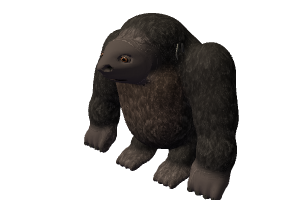
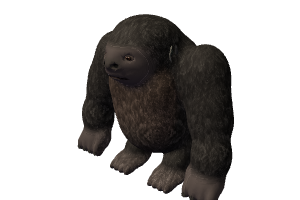
Remove layered axolotl eyelids and shorten gorilla facial projection

diff --git a/public/zoo-animals.js b/public/zoo-animals.js
@@ -2,7 +2,7 @@ import {zooCoatUniforms} from './zoo-coat-atlas.js';
 import {zooModelFrames,zooInteractionPose,GORILLA_PLAY_REVISION} from './zoo-play-poses.js';
 import {ZOO_CLIP_FRAMES,zooBehaviorFrame,zooClipPose} from './zoo-behavior.js';
 import {optimizeGeometryCache} from './geometry-cache.js';
-import {ZOO_ANATOMY_REVISION,POLAR_DETAIL_REVISION} from './zoo-anatomy-data.js';
+import {ZOO_ANATOMY_REVISION,POLAR_DETAIL_REVISION,ZOO_FACE_REVISIONS} from './zoo-anatomy-data.js';
 import {zooTigerCoat,zooTigerCoatSteps} from './zoo-coat-pattern.js';
 import {zooFurSteps,zooFurTexture,zooBearFurTexture} from './zoo-fur.js';
 import {buildZooAnatomy,paintGorillaFace} from './zoo-anatomy.js';
@@ -58,17 +58,19 @@ function* buildTemplateSteps(species){
    skin={axolotl:0xf5c6d6,elephant:0x606867,gorilla:0x514d46,tiger:0x716f67,polar:0x6a4934,otter:0x41342b}[species];
   joint(name,[x,y,z],parent);joint(lid,[x,y,z],parent);
   sockets.push({pos:[x,y+(species==='axolotl'?.12:0),z],size:[r*1.4,r*(species==='axolotl'?1.05:['gorilla','elephant'].includes(species)?.86:.95),r*(species==='axolotl'?1.0:1.55)]});
-  add(skin,point(0,0,-r*.3),[r*1.38,r*(species==='axolotl'?1:.83),r*.22],parent,{aim:normal});
-  add(0xffffff,[x,y,z],[1,1,1],name,{geometryFactory:()=>zooEyeCap(r,{blue,axolotl:species==='axolotl',roundness:species==='elephant'?.81:species==='gorilla'?.66:.69}),gloss:1,painted:true,aim:normal});
+  if(species!=='axolotl')add(skin,point(0,0,-r*.3),[r*1.38,r*.83,r*.22],parent,{aim:normal});
+  add(0xffffff,[x,y,z],[1,1,1],name,{geometryFactory:()=>zooEyeCap(r,{blue,axolotl:species==='axolotl',gorilla:species==='gorilla',roundness:species==='elephant'?.81:species==='gorilla'?.56:.69}),gloss:1,painted:true,aim:normal});
   add(0xfff9e9,point(-r*.22,r*.25,r*(species==='axolotl'?.67:.445)),[r*.1,r*.09,r*.035],name,{gloss:1,micro:true,aim:normal});
   add(0xc1d4d5,point(r*.2,-r*.12,r*(species==='axolotl'?.68:.45)),[r*.036,r*.035,r*.02],name,{gloss:1,micro:true,aim:normal});
-  const h=species==='axolotl'?.86:species==='elephant'?.81:species==='gorilla'?.66:.69,rim=species==='polar'?0x493626:skin;
-  curve([point(-r*1.08,0,r*.04),point(-r*.55,r*h*.83,r*.39),point(0,r*h,r*.47),point(r*.55,r*h*.8,r*.39),point(r*1.08,0,r*.04)],r*(species==='axolotl'?.11:.065),rim,parent);
-  curve([point(-r*1.08,0,r*.03),point(0,-r*h*.85,r*.44),point(r*1.08,0,r*.03)],r*(species==='axolotl'?.065:.035),rim,parent);
-  add(skin,point(0,0,r*.49),[r*1.07,r*h,r*.09],lid,{aim:normal});
+  const h=species==='axolotl'?.86:species==='elephant'?.81:species==='gorilla'?.56:.69,rim=species==='polar'?0x493626:skin;
+  // The axolotl's upper tube floated above its cornea in overhead views.
+  // Keep its approved eye/skin and blink squeeze, without a stacked lid cap.
+  if(species!=='axolotl')curve([point(-r*1.08,0,r*.04),point(-r*.55,r*h*.83,r*.39),point(0,r*h,r*.47),point(r*.55,r*h*.8,r*.39),point(r*1.08,0,r*.04)],r*.065,rim,parent);
+  if(species!=='axolotl')curve([point(-r*1.08,0,r*.03),point(0,-r*h*.85,r*.44),point(r*1.08,0,r*.03)],r*.035,rim,parent);
+  if(species!=='axolotl')add(skin,point(0,0,r*.49),[r*1.07,r*h,r*.09],lid,{aim:normal});
  };
  buildZooAnatomy(species,{joint,add,curve,eye,socket:s=>sockets.push(s)});
- const sculpt=yield*sculptZooAnimalSteps(volumes,{resolution:species==='gorilla'||species==='elephant'?112:96,soft:species==='axolotl'?.04:.09,sockets,pigment:species==='gorilla'?paintGorillaFace:undefined,targetTriangles:{elephant:28000,axolotl:16500,otter:15000,polar:26000,gorilla:27000}[species]}),sculptStats={volumes:volumes.length,vertices:sculpt.attributes.position.count,triangles:sculpt.index.count/3,weighted:0};for(let i=0;i<sculpt.attributes.position.count;i++)if(sculpt.attributes.aSculptWeights.getY(i)>.001)sculptStats.weighted++;add(0xffffff,[0,0,0],[1,1,1],'body',{geometry:sculpt,sculpt:true,gloss:species==='otter'?.36:species==='elephant'?.08:undefined});const fur=yield*zooFurSteps(sculpt,species);sculptStats.furCards=fur?.userData.furCards||0;if(fur){add(0xffffff,[0,0,0],[1,1,1],'body',{geometry:fur,sculpt:true,fur:true,gloss:species==='otter'?.36:0});fur.dispose();}sculpt.dispose();
+ const sculpt=yield*sculptZooAnimalSteps(volumes,{resolution:species==='gorilla'?160:species==='elephant'?112:96,soft:species==='axolotl'?.04:.09,sockets,pigment:species==='gorilla'?paintGorillaFace:undefined,targetTriangles:{elephant:28000,axolotl:16500,otter:15000,polar:26000,gorilla:27000}[species]}),sculptStats={volumes:volumes.length,vertices:sculpt.attributes.position.count,triangles:sculpt.index.count/3,weighted:0};for(let i=0;i<sculpt.attributes.position.count;i++)if(sculpt.attributes.aSculptWeights.getY(i)>.001)sculptStats.weighted++;add(0xffffff,[0,0,0],[1,1,1],'body',{geometry:sculpt,sculpt:true,gloss:species==='otter'?.36:species==='elephant'?.08:undefined});const fur=yield*zooFurSteps(sculpt,species);sculptStats.furCards=fur?.userData.furCards||0;if(fur){add(0xffffff,[0,0,0],[1,1,1],'body',{geometry:fur,sculpt:true,fur:true,gloss:species==='otter'?.36:0});fur.dispose();}sculpt.dispose();
  for(let i=0;i<pendingParts.length;i++){bakePart(...pendingParts[i]);if(i%3===0)yield;}
  const geometry=mergeGeometries(parts,false);parts.forEach(g=>g.dispose());optimizeGeometryCache(geometry);geometry.computeBoundingSphere();geometry.userData.sharedScenery=true;
  const frameCount=zooModelFrames(species),n=joints.length,values=new Float32Array(n*4*frameCount*4),rest=joints.map((j,i)=>new T.Matrix4().makeTranslation(...j.pivot.toArray())),inverse=rest.map(m=>m.clone().invert()),animated=[];
@@ -77,7 +79,7 @@ function* buildTemplateSteps(species){
   animated[i]=j.parent===null?m:animated[j.parent].clone().multiply(m);const skin=animated[i].clone().multiply(inverse[i]);values.set(skin.elements,(f*n+i)*16);
  }if(f%8===0)yield;}
  const texture=new T.DataTexture(values,n*4,frameCount,T.RGBAFormat,T.FloatType);texture.minFilter=texture.magFilter=T.NearestFilter;texture.needsUpdate=true;texture.userData.sharedScenery=true;
- return {species,geometry,texture,joints,values,frameCount,width:n*4,refs:0,sculptStats,anatomyRevision:ZOO_ANATOMY_REVISION,detailRevision:species==='polar'?POLAR_DETAIL_REVISION:species==='gorilla'?GORILLA_PLAY_REVISION:undefined};
+ return {species,geometry,texture,joints,values,frameCount,width:n*4,refs:0,sculptStats,anatomyRevision:ZOO_ANATOMY_REVISION,faceRevision:ZOO_FACE_REVISIONS[species],detailRevision:species==='polar'?POLAR_DETAIL_REVISION:species==='gorilla'?GORILLA_PLAY_REVISION:undefined};
 }
 const declarations=`attribute float aGreetWeight;varying vec3 vZooRestNormal;attribute vec2 aJoints;attribute vec2 aWeights;attribute vec2 aGloss;varying float vZooFur;varying vec2 vZooFurUV;attribute float aStripe;varying float vZooStripe;varying vec3 vZooRest;attribute float aZooPhase;varying float vZooGloss;uniform sampler2D uZooPose;uniform float uZooFrameAt[8];uniform float uZooOverrideFrame[8];uniform float uZooOverrideMix[8];uniform vec3 uZooReactShift[8];uniform vec2 uZooReactYaw[8];uniform float uZooGrip[8];uniform float uZooSpecies;uniform float uZooTime;uniform float uZooFrames;uniform float uZooCycle;uniform float uZooGreet;uniform float uZooApproach;uniform float uZooAngle;uniform vec3 uZooAxis;attribute float aGreetId;attribute vec3 aGreetPivot;
 vec3 zooAxisRotate(vec3 p,vec3 axis,float a){return p*cos(a)+cross(axis,p)*sin(a)+axis*dot(axis,p)*(1.-cos(a));}

diff --git a/public/zoo-model-codec.js b/public/zoo-model-codec.js
@@ -1,11 +1,11 @@
 import {zooModelFrames,GORILLA_PLAY_REVISION} from './zoo-play-poses.js';
-import {ZOO_ANATOMY_REVISION,POLAR_DETAIL_REVISION} from './zoo-anatomy-data.js';
+import {ZOO_ANATOMY_REVISION,POLAR_DETAIL_REVISION,ZOO_FACE_REVISIONS} from './zoo-anatomy-data.js';
 import * as T from 'three';
 import {ZOO_POSE_FRAMES} from './zoo-animal-motion.js';
 const MAGIC=0x5a4f4f33,types={Float32Array,Uint32Array,Uint16Array,Uint8Array};
 export function encodeZooTemplate(t){
  let bytes=0;const chunks=[],attribute=(a)=>{const data=a.array||a,meta={type:data.constructor.name,length:data.length,offset:bytes,itemSize:a.itemSize,normalized:!!a.normalized};chunks.push({data,offset:bytes});bytes+=Math.ceil(data.byteLength/4)*4;return meta;};
- const header={schema:2,anatomyRevision:t.anatomyRevision,species:t.species,detailRevision:t.detailRevision,frameCount:t.frameCount===400?undefined:t.frameCount,joints:t.joints.map(j=>({role:j.role,pivot:j.pivot.toArray(),parent:j.parent})),sculptStats:t.sculptStats,
+ const header={schema:2,anatomyRevision:t.anatomyRevision,species:t.species,detailRevision:t.detailRevision,faceRevision:t.faceRevision,frameCount:t.frameCount===400?undefined:t.frameCount,joints:t.joints.map(j=>({role:j.role,pivot:j.pivot.toArray(),parent:j.parent})),sculptStats:t.sculptStats,
   attributes:Object.fromEntries(Object.entries(t.geometry.attributes).map(([name,a])=>[name,attribute(a)])),index:attribute(t.geometry.index),poses:attribute(t.values)};
  const json=new TextEncoder().encode(JSON.stringify(header)),start=8+Math.ceil(json.byteLength/4)*4,buffer=new ArrayBuffer(start+bytes),view=new DataView(buffer);
  view.setUint32(0,MAGIC,true);view.setUint32(4,json.byteLength,true);new Uint8Array(buffer,8,json.length).set(json);
@@ -17,6 +17,7 @@ export function decodeZooTemplate(buffer,species){
  const h=JSON.parse(new TextDecoder().decode(new Uint8Array(buffer,8,length))),start=8+Math.ceil(length/4)*4;
  if(h.schema!==2||h.anatomyRevision!==ZOO_ANATOMY_REVISION||h.species!==species||!Array.isArray(h.joints)||h.joints.length<5||h.joints.length>100)throw Error('Invalid zoo rig');
  if(species==='polar'&&h.detailRevision!==POLAR_DETAIL_REVISION)throw Error('Old polar anatomy');
+ if(ZOO_FACE_REVISIONS[species]&&h.faceRevision!==ZOO_FACE_REVISIONS[species])throw Error('Old zoo face');
  const frameCount=h.frameCount||400;if(frameCount!==zooModelFrames(species)||species==='gorilla'&&h.detailRevision!==GORILLA_PLAY_REVISION)throw Error('Old zoo interaction poses');
  const array=m=>{const Type=types[m.type];if(!Type||!Number.isInteger(m.length)||m.length<1||!Number.isInteger(m.offset)||m.offset<0||m.offset%4||start+m.offset+m.length*Type.BYTES_PER_ELEMENT>buffer.byteLength)throw Error('Invalid zoo buffer');return new Type(buffer,start+m.offset,m.length);};
  const geometry=new T.BufferGeometry();for(const [name,m]of Object.entries(h.attributes)){if(!Number.isInteger(m.itemSize)||m.itemSize<1||m.itemSize>4)throw Error('Invalid zoo attribute');geometry.setAttribute(name,new T.BufferAttribute(array(m),m.itemSize,m.normalized));}
@@ -26,5 +27,5 @@ export function decodeZooTemplate(buffer,species){
  geometry.setIndex(new T.BufferAttribute(array(h.index),1));geometry.computeBoundingSphere();geometry.userData.sharedScenery=true;
  const values=array(h.poses);if(values.length!==h.joints.length*16*frameCount)throw Error('Invalid zoo poses');
  const texture=new T.DataTexture(values,h.joints.length*4,frameCount,T.RGBAFormat,T.FloatType);texture.minFilter=texture.magFilter=T.NearestFilter;texture.needsUpdate=true;texture.userData.sharedScenery=true;
- return {species,geometry,texture,values,frameCount,prebaked:true,anatomyRevision:h.anatomyRevision,detailRevision:h.detailRevision,width:h.joints.length*4,refs:0,sculptStats:h.sculptStats,joints:h.joints.map((j,i)=>{if(j.parent!==null&&(!Number.isInteger(j.parent)||j.parent>=i||j.parent<0))throw Error('Invalid zoo parent');return {...j,pivot:new T.Vector3(...j.pivot)};})};
+ return {species,geometry,texture,values,frameCount,prebaked:true,anatomyRevision:h.anatomyRevision,detailRevision:h.detailRevision,faceRevision:h.faceRevision,width:h.joints.length*4,refs:0,sculptStats:h.sculptStats,joints:h.joints.map((j,i)=>{if(j.parent!==null&&(!Number.isInteger(j.parent)||j.parent>=i||j.parent<0))throw Error('Invalid zoo parent');return {...j,pivot:new T.Vector3(...j.pivot)};})};
 }

diff --git a/public/zoo-anatomy.js b/public/zoo-anatomy.js
@@ -117,15 +117,15 @@ export function buildZooAnatomy(species,{joint,add,curve,eye,socket=()=>{}}){
   face(fur,[0,2.15,.32],[.47,.43,.46],.14);face(fur,[0,2.37,.28],[.4,.22,.39],.14);
   // One deformable facial surface: broad muzzle, nasal bridge and curved
   // orbital ridge are smooth relief, never intersecting ellipsoid patches.
-  skin(skinCol,[0,2.055,.66],[.355,.345,.24],'head',{blend:.10,relief:[
+  skin(skinCol,[0,2.055,.61],[.355,.345,.156],'head',{blend:.10,relief:[
    [0,2.16,.11,.115,.16],[0,2.085,.22,.20,.075],[0,1.955,.22,.275,.125],
-   [-.17,2.255,.16,.18,.085],[.17,2.255,.16,.18,.085],
+   [-.17,2.255,.18,.18,.085],[.17,2.255,.18,.18,.085],
    [-.175,2.16,-.035,.08,.05],[.175,2.16,-.035,.08,.05],
    [-.26,2.065,.03,.105,.17],[.26,2.065,.03,.105,.17],
    [0,1.845,.06,.23,.07],[0,1.935,.055,.23,.037],[0,1.84,.04,.23,.045]
-  ]});
+  ].map(([x,y,a,sx,sy])=>[x,y,a*.65,sx,sy])});
   for(const side of [-1,1]){
-   eye(side*.175,2.16,1.077,.059,'head',false,[side*.09,0,1]);
+   eye(side*.175,2.16,.855,.05,'head',false,[side*.09,0,1]);
    add(0x454948,[side*.43,2.15,.26],[.11,.15,.065],'head');add(0x6b6861,[side*.43,2.15,.318],[.06,.095,.016],'head');
    const arm='Arm'+sideName(side),elbow='Elbow'+sideName(side);joint(arm,[side*.69,1.87,.03],'body');joint(elbow,[side*1.08,1.03,.14],arm);
    skin(fur,[side*.82,1.76,.015],[.37,.51,.36],arm);skin(fur,[side*.99,1.37,.12],[.31,.5,.32],arm);skin(fur,[side*1.05,1.2,.13],[.285,.31,.29],arm);skin(fur,[side*1.12,.77,.23],[.29,.43,.285],elbow);skin(skinCol,[side*1.12,.38,.32],[.26,.24,.25],elbow);
@@ -134,8 +134,8 @@ export function buildZooAnatomy(species,{joint,add,curve,eye,socket=()=>{}}){
    const leg='LegBack'+sideName(side);joint(leg,[side*.37,.8,-.18],'body');skin(fur,[side*.39,.57,-.25],[.29,.44,.3],leg);skin(fur,[side*.4,.26,-.02],[.22,.25,.27],leg);skin(skinCol,[side*.4,.12,.17],[.27,.12,.37],leg);
    for(let k=0;k<4;k++)skin(skinCol,[side*.4+(k-1.5)*.105,.075,.41],[.052,.075,.15],leg);
   }
-  for(const side of [-1,1])socket({pos:[side*.087,2.075,1.310],size:[.047,.033,.079]});
-  socket({pos:[0,1.892,1.22],size:[.205,.021,.076]});
+  for(const side of [-1,1])socket({pos:[side*.087,2.075,1.0325],size:[.047,.033,.05135]});
+  socket({pos:[0,1.892,.974],size:[.205,.021,.0494]});
   for(const side of [-1,1]){
    curve([[side*.48,2.26,.34],[side*.50,2.23,.38],[side*.50,2.14,.4],[side*.49,2.04,.34],[side*.47,2.04,.25],[side*.46,2.12,.23],[side*.47,2.23,.25]],.012,0x62675e);
    add(0x343d37,[side*.485,2.15,.32],[.018,.075,.055],'head',{micro:true});
@@ -165,10 +165,12 @@ export function buildZooAnatomy(species,{joint,add,curve,eye,socket=()=>{}}){
 
 // Pigment belongs to the carved inner skin. Separate dark mouth/nostril
 // backings protruded through curved lips and looked like glued-on flat pieces.
-const oralPigment=new T.Color(0x292421),nasalPigment=new T.Color(0x1a1e1c);
+const oralPigment=new T.Color(0x292421),nasalPigment=new T.Color(0x1a1e1c),foreheadFur=new T.Color(0x383a36),nasalSkin=new T.Color(0x3d403b);
 export function paintGorillaFace(p,color){
- const [x,y,z]=p;if(z<1.02||y<1.85||y>2.12)return;
- const smooth=T.MathUtils.smoothstep;
+ const [x,y]=p,z=.66+(p[2]-.61)/.65,smooth=T.MathUtils.smoothstep;
+ if(y>2.255&&p[2]>.6)color.lerp(foreheadFur,smooth(y,2.255,2.33));
+ if(z<1.02||y<1.85||y>2.2)return;
+ const nose=(1-smooth(Math.abs(x),.12,.19))*smooth(y,2.015,2.055)*(1-smooth(y,2.145,2.2))*smooth(z,1.15,1.23);color.lerp(nasalSkin,nose*.62);
  const mouth=(1-smooth(Math.abs(x),.16,.205))*(1-smooth(Math.abs(y-1.892),.008,.021))*(1-smooth(z,1.17,1.205));
  const nostril=(1-smooth(Math.hypot((Math.abs(x)-.087)/.047,(y-2.075)/.033),.65,1.05))*(1-smooth(z,1.295,1.32))*smooth(z,1.17,1.21);
  color.lerp(oralPigment,mouth*.96);color.lerp(nasalPigment,nostril*.97);

diff --git a/public/zoo-fur.js b/public/zoo-fur.js
@@ -33,7 +33,7 @@ export function* zooFurSteps(sculpt,species){
   const r=random(attempt*19+11)*area;let lo=0,hi=cumulative.length-1;while(lo<hi){const mid=(lo+hi)>>1;if(cumulative[mid]<r)lo=mid+1;else hi=mid;}
   const vi=[idx[lo*3],idx[lo*3+1],idx[lo*3+2]],s=Math.sqrt(random(attempt*19+12)),q=random(attempt*19+13),bary=[1-s,s*(1-q),s*q];root.set(0,0,0);n.set(0,0,0);const color=new T.Color(0,0,0),bone=new Map();let st=0;
   for(let k=0;k<3;k++){const i=vi[k],w=bary[k];a.fromBufferAttribute(pos,i);root.addScaledVector(a,w);a.fromBufferAttribute(norm,i);n.addScaledVector(a,w);color.r+=col.getX(i)*w;color.g+=col.getY(i)*w;color.b+=col.getZ(i)*w;st+=stripe.getX(i)*w;bone.set(joints.getX(i),(bone.get(joints.getX(i))||0)+weights.getX(i)*w);bone.set(joints.getY(i),(bone.get(joints.getY(i))||0)+weights.getY(i)*w);}
-  n.normalize();if(root.y<.11||species==='gorilla'&&root.z>.60&&Math.hypot(root.x/.34,(root.y-2.045)/.29)<1||species==='gorilla'&&root.y<.5&&Math.abs(root.x)>.85)continue;
+  n.normalize();if(root.y<.11||species==='gorilla'&&root.z>.50&&root.y<2.29&&Math.hypot(root.x/.34,(root.y-2.045)/.29)<1||species==='gorilla'&&root.y<.5&&Math.abs(root.x)>.85)continue;
   const face=species==='tiger'&&root.z>1.2||species==='polar'&&root.z>1.5||species==='otter'&&root.z>.8,
    length=({tiger:.041,polar:.112,gorilla:.095,otter:.039}[species])*(.7+random(attempt+170)*.6)*(face?.35:1),width=length*(species==='polar'?.58:.48);
   flow.set(root.x*.08,-.65,-.8);flow.addScaledVector(n,-flow.dot(n));if(flow.lengthSq()<.01)flow.set(1,0,0);flow.normalize();right.crossVectors(n,flow).normalize();const angle=(random(attempt+230)-.5)*.6;right.applyAxisAngle(n,angle);flow.crossVectors(right,n).normalize();

diff --git a/public/zoo-eyes.js b/public/zoo-eyes.js
@@ -1,7 +1,7 @@
 import * as T from 'three';
 // One shallow, coloured corneal cap replaces five stacked cartoon eye balls.
-export function zooEyeCap(radius,{blue=false,axolotl=false,roundness=.69}={}){
- const rings=14,sides=40,p=[],uv=[],color=[],index=[],c=new T.Color(),iris=new T.Color(blue?axolotl?0x4babc2:0x76999a:0x705033),rim=new T.Color(0x242823),pupil=new T.Color(0x11191a),sclera=new T.Color(axolotl?0xe9e4db:0x686357);
+export function zooEyeCap(radius,{blue=false,axolotl=false,gorilla=false,roundness=.69}={}){
+ const rings=14,sides=40,p=[],uv=[],color=[],index=[],c=new T.Color(),iris=new T.Color(gorilla?0x49382a:blue?axolotl?0x4babc2:0x76999a:0x705033),rim=new T.Color(0x242823),pupil=new T.Color(0x11191a),sclera=new T.Color(axolotl?0x246271:gorilla?0x3e3b35:0x686357);
  for(let row=0;row<=rings;row++)for(let j=0;j<=sides;j++){
   const r=row/rings,a=j/sides*Math.PI*2,ny=Math.sin(a),s= Math.sqrt(Math.max(0,1-r*r));p.push(Math.cos(a)*r*radius,ny*r*radius*(axolotl?.88:roundness),s*radius*(axolotl?.72:.48));uv.push((Math.cos(a)*r+1)/2,(ny*r+1)/2);
   c.copy(iris);if(r<(axolotl?.53:.49))c.copy(pupil);else {c.lerp(rim,T.MathUtils.smoothstep(r,.72,.88));c.multiplyScalar(.9+Math.sin(a*34+r*24)*.075+Math.sin(a*17-r*36)*.045);if(r>.9)c.lerp(sclera,T.MathUtils.smoothstep(r,.9,1));}

diff --git a/public/zoo-surface.js b/public/zoo-surface.js
@@ -24,7 +24,7 @@ export function* zooSurfaceTextureSteps(){
 // Rest-space triplanar coat coordinates stay attached to the sculpted skin.
 // One shared immutable texture, no fur shells, scene copies or frame uploads.
 export const zooSurfaceDeclarations=`uniform sampler2D uZooSurface;uniform sampler2D uZooCoatAtlas;uniform float uZooCoatReady;float zooAtlasTone=1.;float zooAtlasActive=0.;uniform float uZooSkin;uniform float uZooWrinkles;uniform float uZooSpecies;varying vec3 vZooRestNormal;
-float zooGorillaSkin(vec3 p){float face=smoothstep(.55,.7,p.z)*(1.-smoothstep(.90,1.15,length(vec2(p.x/.35,(p.y-2.045)/.30))));float hand=smoothstep(.85,1.,abs(p.x))*(1.-smoothstep(.42,.62,p.y));return max(face,hand);}
+float zooGorillaSkin(vec3 p){float face=smoothstep(.45,.6,p.z)*(1.-smoothstep(.90,1.15,length(vec2(p.x/.35,(p.y-2.045)/.30))))*(1.-smoothstep(2.255,2.33,p.y));float hand=smoothstep(.85,1.,abs(p.x))*(1.-smoothstep(.42,.62,p.y));return max(face,hand);}
 vec2 zooAtlasUV(vec2 uv,vec2 tile){uv+=vec2(.371,.217);uv=abs(fract(uv*.5)*2.-1.);return tile*.5+mix(vec2(.006),vec2(.494),uv);}
 vec4 zooCoatTex(vec3 p){vec3 w=pow(abs(vZooRestNormal),vec3(4.));w/=max(dot(w,vec3(1.)),.0001);
  if(uZooCoatReady>.5&&uZooSpecies<5.5){

diff --git a/public/zoo-model-manifest.js b/public/zoo-model-manifest.js
@@ -1,8 +1,8 @@
 // Exact authoring output; fetched only when the zoo is selected.
 export const ZOO_MODELS={
   "elephant": "./models/zoo/elephant-6c9388cd3da7b052.bin",
-  "axolotl": "./models/zoo/axolotl-c58afa14c35ddc80.bin",
+  "axolotl": "./models/zoo/axolotl-c2262a989f8b2113.bin",
   "otter": "./models/zoo/otter-c96ca902a235f593.bin",
   "polar": "./models/zoo/polar-35301efaef99904d.bin",
-  "gorilla": "./models/zoo/gorilla-82168401c3caba75.bin"
+  "gorilla": "./models/zoo/gorilla-1290f9a59e4b98cc.bin"
 };

diff --git a/public/zoo-anatomy-data.js b/public/zoo-anatomy-data.js
@@ -1,4 +1,5 @@
 export const ZOO_ANATOMY_REVISION='wildlife-v5';
+export const ZOO_FACE_REVISIONS={axolotl:'axolotl-eyes-v2',gorilla:'gorilla-face-v2'};
 // Shared rest landmarks for the sculpt and offline two-bone foot choreography.
 export const ZOO_LEGS={
  elephant:{x:.62,front:.88,rear:-.96,hip:1.99,sy:.6,rx:.31,foot:.33},

diff --git a/public/index.html b/public/index.html
@@ -702,6 +702,6 @@
       </div>
     </dialog>
     <div id="toast" role="status" aria-live="polite" hidden></div>
-    <script type="module" src="./dist/app.js?v=3dcfc36797326799"></script>
+    <script type="module" src="./dist/app.js?v=eeb8296ae85c2970"></script>
   </body>
 </html>

diff --git a/AGENTS.md b/AGENTS.md
@@ -687,3 +687,22 @@ Dark gorilla oral/nasal cavities are pigmented on the continuous inner skin
 during authoring. Do not reintroduce separate glossy dark backings: in profile
 they protrude through curved lips and nostril rims. Check the untextured sculpt
 and retain the matte-cavity regression test.
+
+### Approved axolotl skin and compact gorilla face
+
+The player explicitly approved the axolotl's glossy pink skin and anatomy.
+Eye-only fixes must preserve its nonocular positions/normals/colours/topology
+and all 400 baked pose rows. The golden fixture records the approved release;
+do not regenerate it from a changed candidate. Check the actual overhead view
+through open/partial/closed blinks: separate opaque lid/backing plates and the
+pale corneal rim previously appeared as overlapping bars from above. Preserve
+the large turquoise/black eyes, highlights and native blink movement.
+
+The gorilla's old projected muzzle was explicitly rejected as too long. Keep
+its facial relief compact relative to the skull, with inset narrower eyes and
+anatomical nose/lips, preserving the approved body and all nonocular pose bytes,
+branch/palm anchors and mobile geometry budget. Denser source authoring stays
+cooperative and is simplified only offline; ship immutable model buffers.
+Species-specific face revisions must reject old axolotl/gorilla geometry while
+leaving elephant/otter/grizzly caches byte-identical. Validate source/cache
+identity, real overhead phone frames, close front/profile views and native saves.
